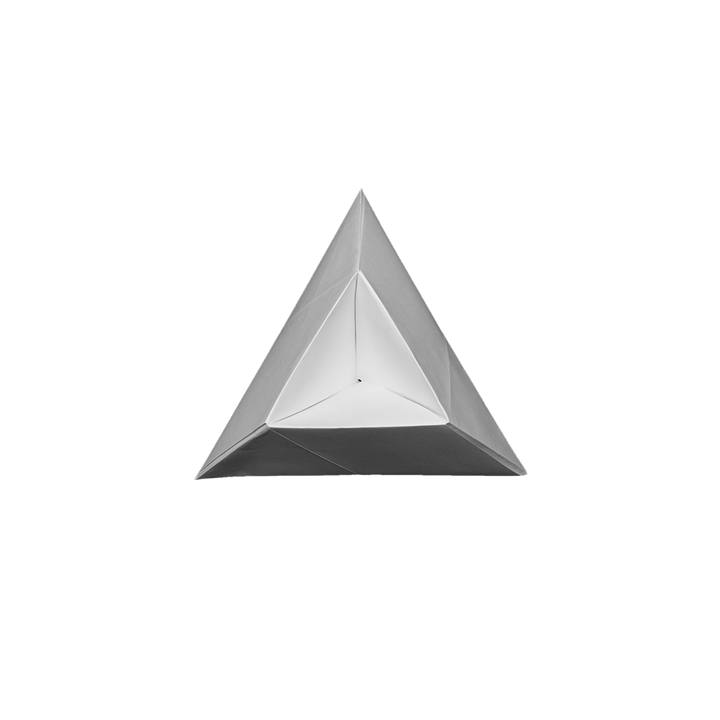
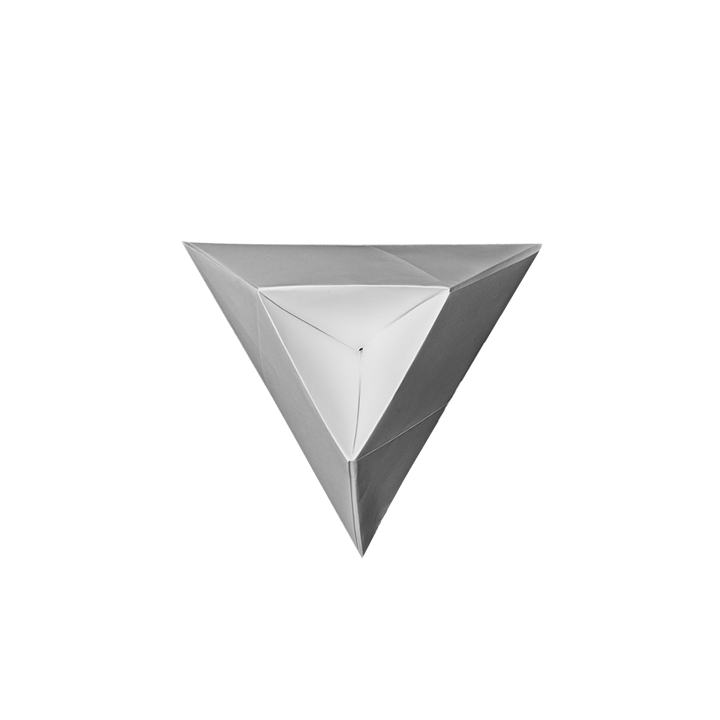
Flipped triangle shape diff --git a/src/images/shadow-triangle.png b/src/images/shadow-triangle.png index 27435f0..910bae8 100644 Binary files a/src/images/shadow-triangle.png and b/src/images/shadow-triangle.png differ diff --git a/src/images/shadow-triangle.svg b/src/images/shadow-triangle.svg ind

Changed region(s): [[0.2444, 0.2444, 0.7639, 0.7639]]

diff --git a/src/js/oragami-types.js b/src/js/oragami-types.js
@@ -40,14 +40,14 @@ module.exports = {
       [270, 330],
       [350, 480]
     ],
-    paths: [[[286,321],[360.082,272],[361,189.5]],
-      [[195,479.5],[266,425.5],[360.082,272],[286,321]],
-      [[355.5,474.5],[266,425.5],[195,479.5]],
-      [[527.5,475],[450,424.5],[266,425.5],[355.5,474.5]],
-      [[360.082,272],[360.082,379.5],[266,425.5]],
-      [[450,424.5],[360.082,379.5],[266,425.5]],
-      [[447,340],[450,424.5],[527.5,475]],
-      [[361,189.5],[360.082,272],[450,424.5],[447,340]],
-      [[360.082,379.5],[360.082,272],[450,424.5]]]
+    paths: [[[181.832,242], [255.582,288.25], [449.582,288.25], [372.082,244.75]],
+      [[541.332,244.25], [449.582,288.25], [372.082,244.75]],
+      [[360.072,351.25], [255.582,288.25], [449.582,288.25]],
+      [[255.582,288.25], [351.582,463], [360.072,351.25]],
+      [[449.582,288.25], [351.582,463], [360.072,351.25]],
+      [[181.832,242], [265.332,384.5], [255.582,288.25]],
+      [[362.582,558], [351.582,463], [255.582,288.25], [265.332,384.5]],
+      [[541.332,244.25], [447.582,402.75], [351.582,463], [449.582,288.25]],
+      [[362.582,558], [351.582,463], [447.582,402.75]]]
   }
 };
